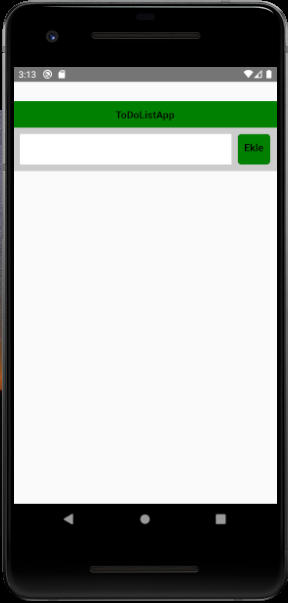
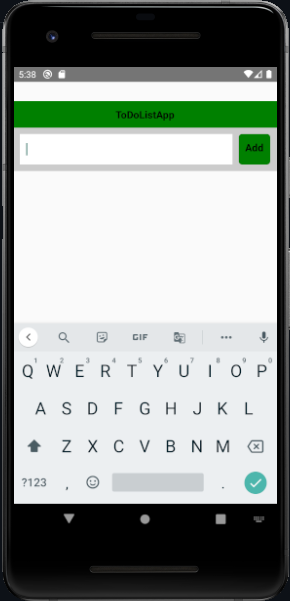
images were changed

diff --git a/ToDoListApp/App.js b/ToDoListApp/App.js
@@ -49,7 +49,7 @@ export default class App extends Component{
                   onChangeText={(text)=>this.setState({text})}
                 />
                 <TouchableOpacity onPress={this.handleSave} style={style.button}>
-                  <Text style={style.title_text}>Ekle</Text>
+                  <Text style={style.title_text}>Add</Text>
                 </TouchableOpacity>
               </View>
               <View>
